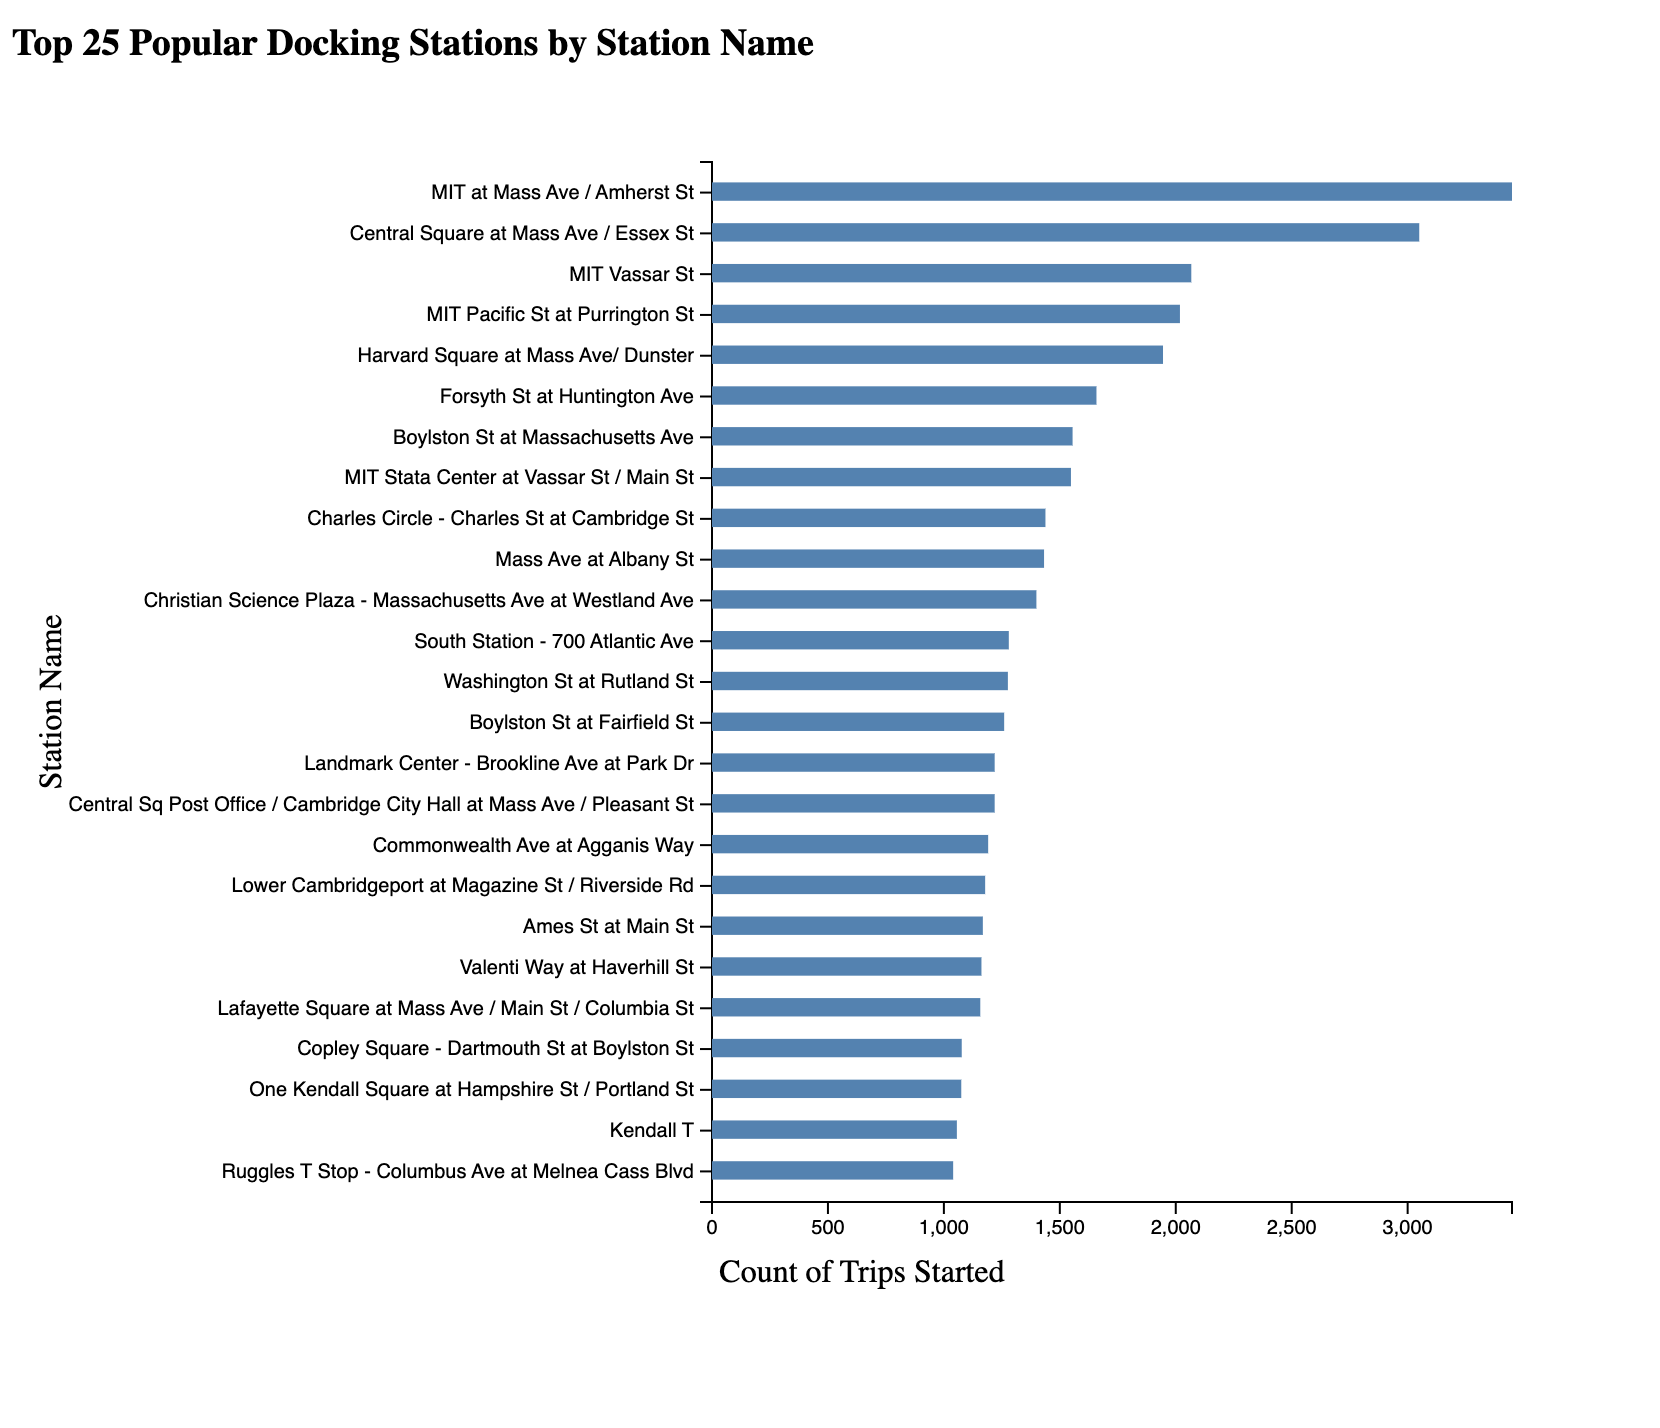
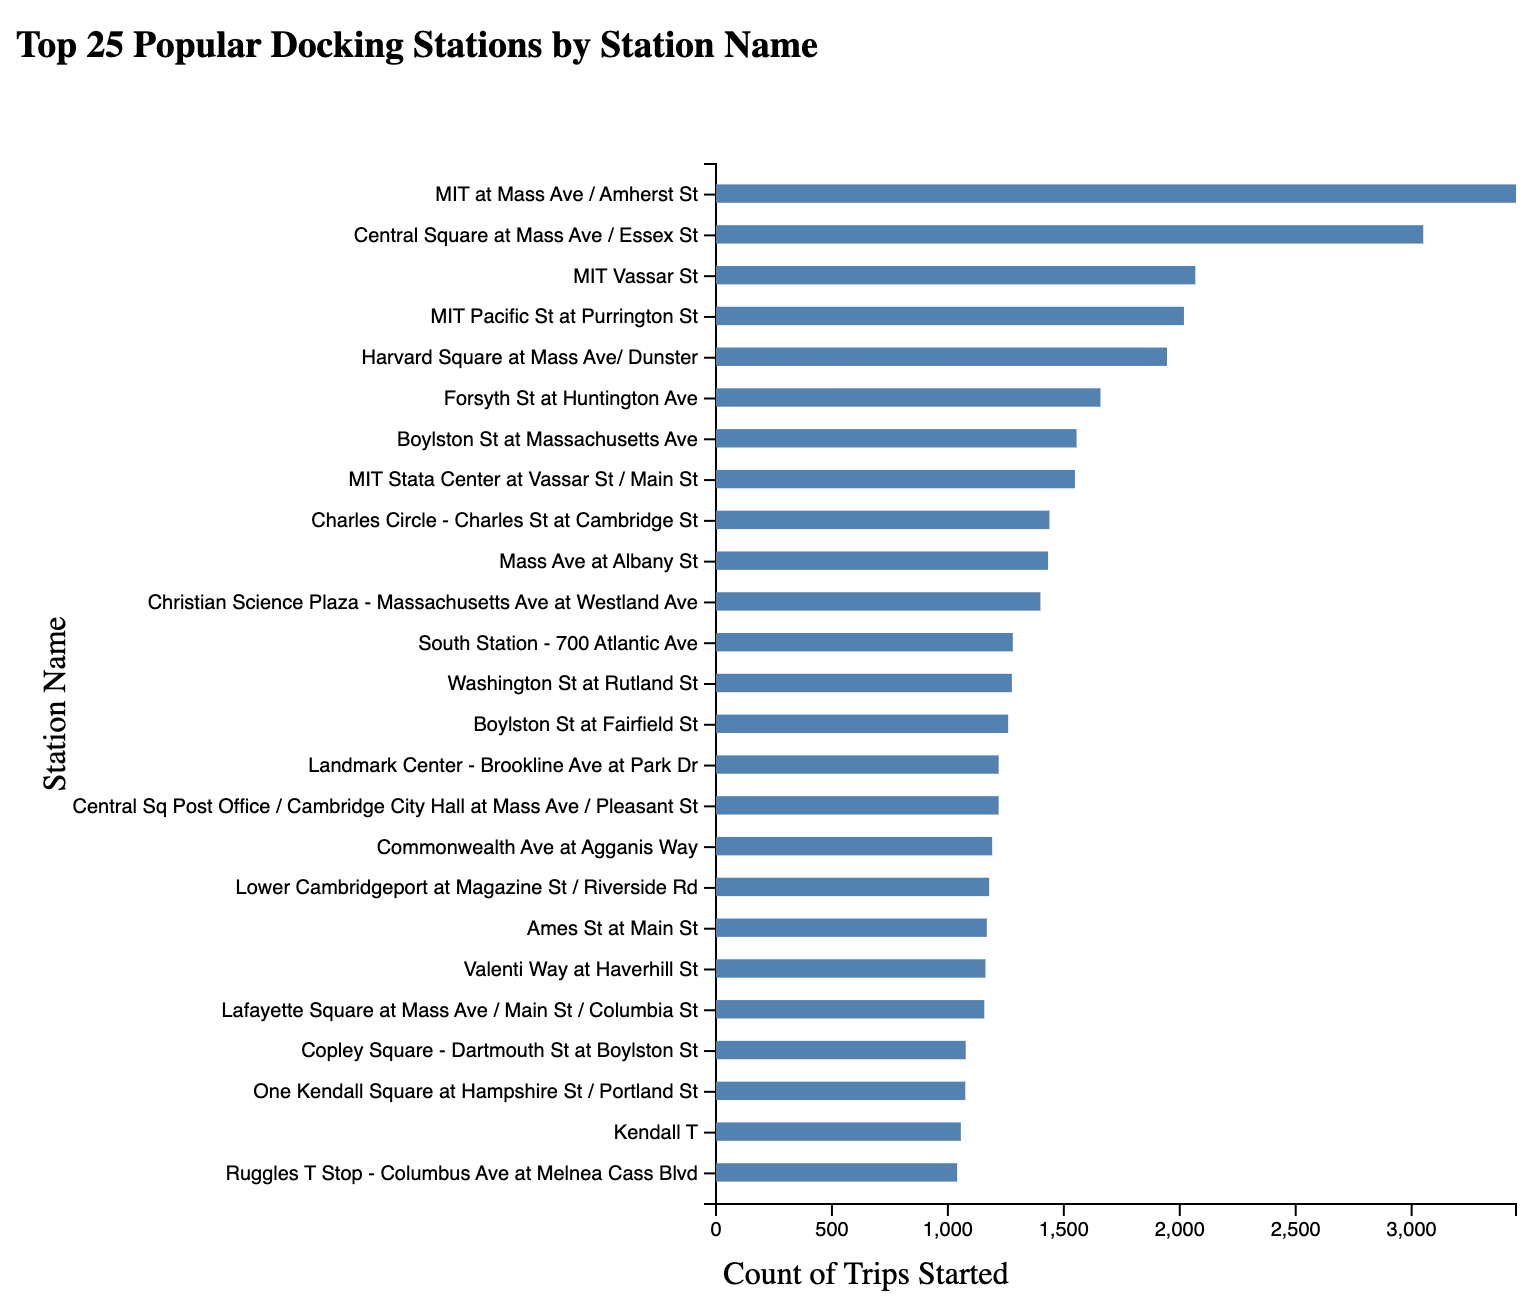
Adding MBTA transit data

diff --git a/submission 2/website/index.html b/submission 2/website/index.html
@@ -165,7 +165,7 @@
 
     </div>
     <div class='image'>
-        <img src="static_plots/D3BarChartFinished.png" width="100%" height="550px" frameborder="0"></img>
+        <img src="static_plots/D3BarChartFinished.png" width="100%" height="500px" frameborder="0"></img>
     </div>
 </div>
 
